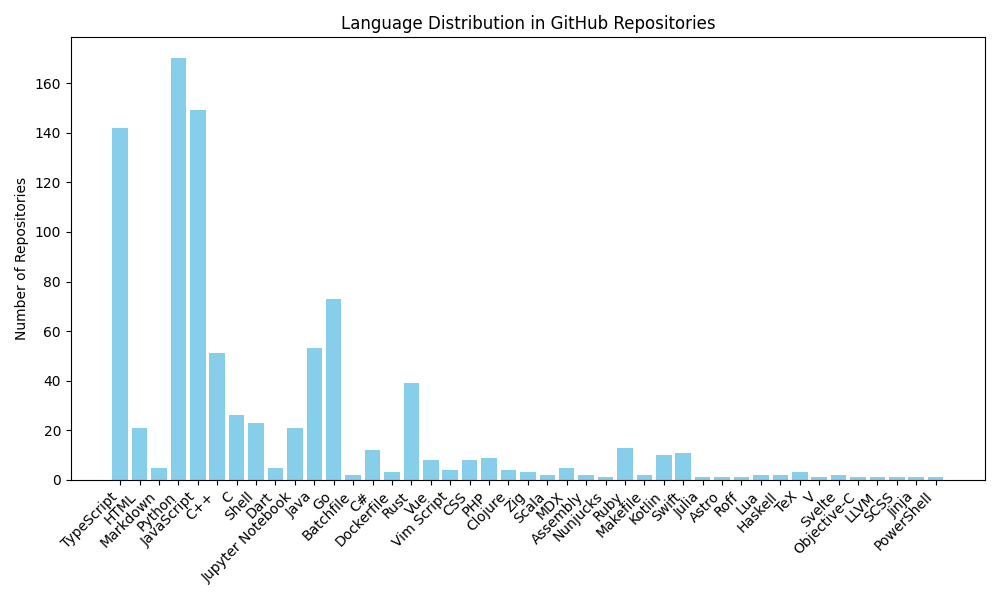
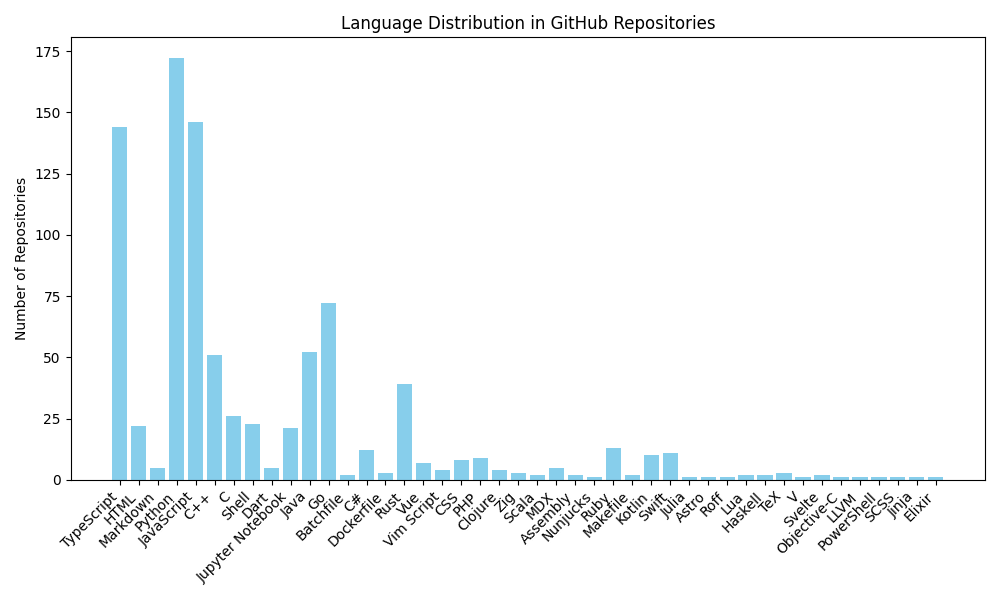
Update language distribution chart

diff --git a/README.md b/README.md
@@ -5,7 +5,7 @@
 Total repositories processed: 895
 
 Language distribution:
-TypeScript: 142, HTML: 21, Markdown: 5, Python: 170, JavaScript: 149, C++: 51, C: 26, Shell: 23, Dart: 5, Jupyter Notebook: 21, Java: 53, Go: 73, Batchfile: 2, C#: 12, Dockerfile: 3, Rust: 39, Vue: 8, Vim Script: 4, CSS: 8, PHP: 9, Clojure: 4, Zig: 3, Scala: 2, MDX: 5, Assembly: 2, Nunjucks: 1, Ruby: 13, Makefile: 2, Kotlin: 10, Swift: 11, Julia: 1, Astro: 1, Roff: 1, Lua: 2, Haskell: 2, TeX: 3, V: 1, Svelte: 2, Objective-C: 1, LLVM: 1, SCSS: 1, Jinja: 1, PowerShell: 1
+TypeScript: 144, HTML: 22, Markdown: 5, Python: 172, JavaScript: 146, C++: 51, C: 26, Shell: 23, Dart: 5, Jupyter Notebook: 21, Java: 52, Go: 72, Batchfile: 2, C#: 12, Dockerfile: 3, Rust: 39, Vue: 7, Vim Script: 4, CSS: 8, PHP: 9, Clojure: 4, Zig: 3, Scala: 2, MDX: 5, Assembly: 2, Nunjucks: 1, Ruby: 13, Makefile: 2, Kotlin: 10, Swift: 11, Julia: 1, Astro: 1, Roff: 1, Lua: 2, Haskell: 2, TeX: 3, V: 1, Svelte: 2, Objective-C: 1, LLVM: 1, PowerShell: 1, SCSS: 1, Jinja: 1, Elixir: 1
 
 
-_Last updated: 2025-02-09 01:05:48_
+_Last updated: 2025-02-16 01:07:48_
